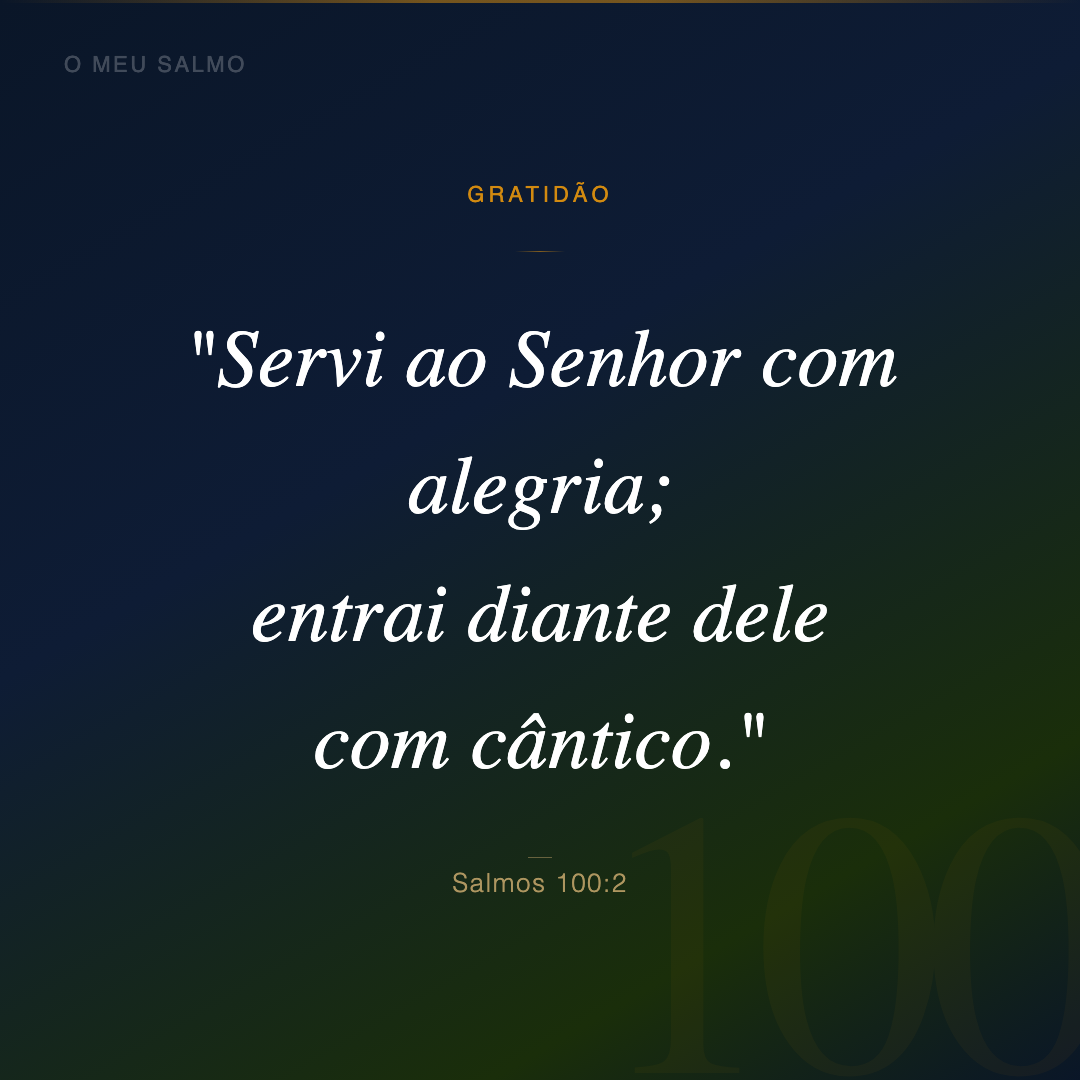
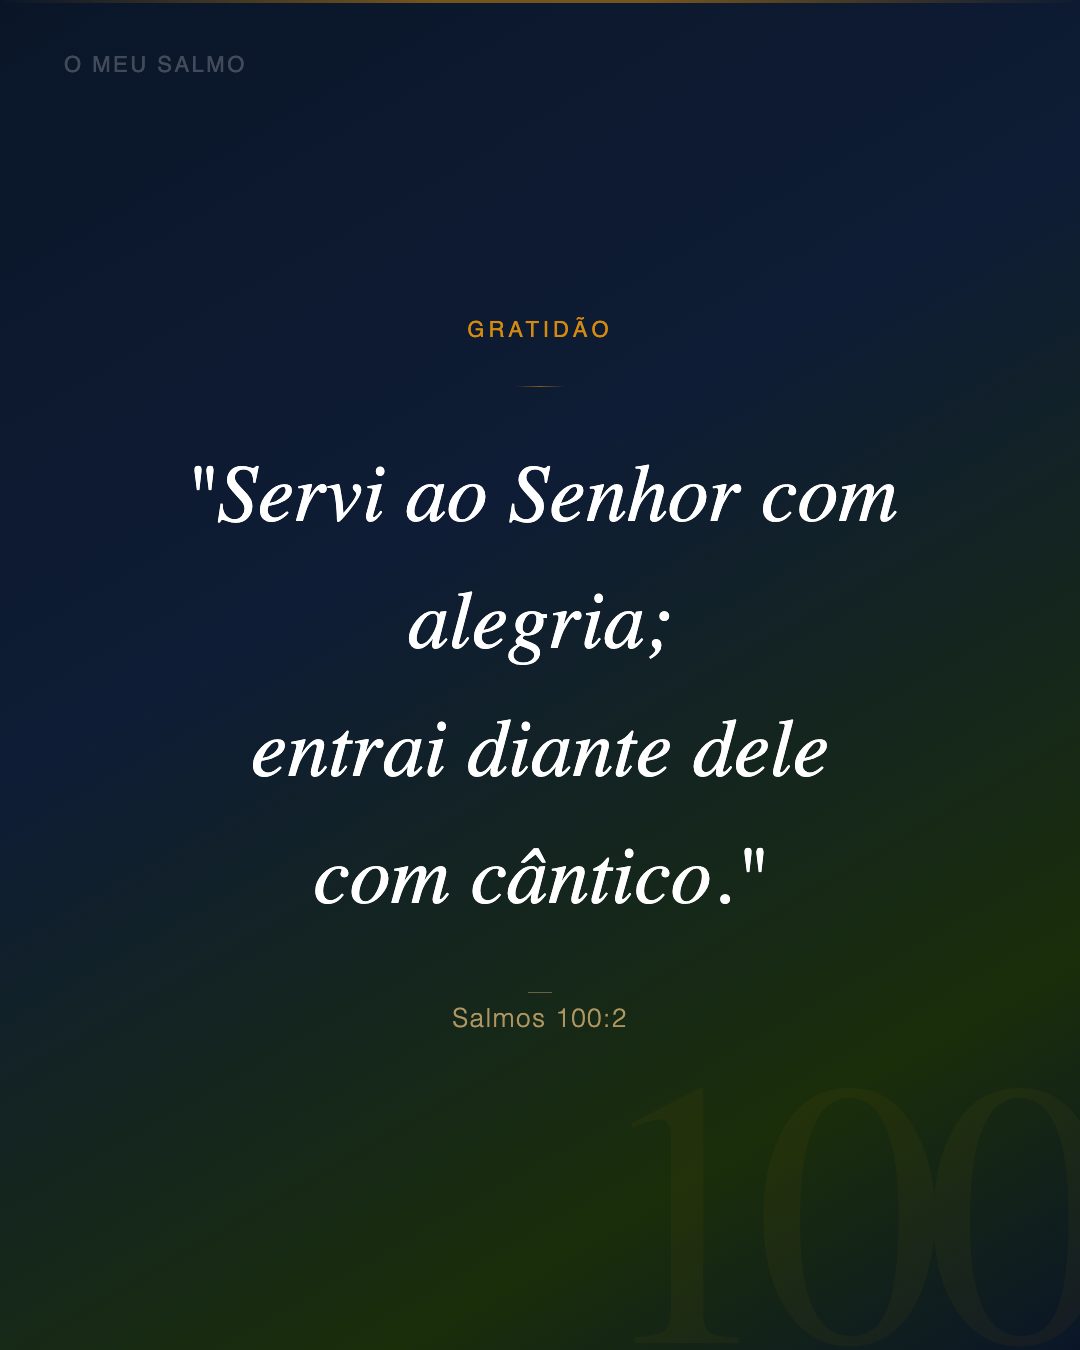
design(instagram): 4:5 feed format + carousel engagement pass
Applied social-media-carousel skill review:
- All 14 feed images migrated 1080x1080 -> 1080x1350 (4:5 takes more
  feed real estate than square)
- Carousel value slides: discreet progress counter (N de 5) at top,
  moved off the footer logo after first pass collided
- CTA slide: 'Salve este post para quando precisar' save cue (saves
  outweigh likes for reach)
- Queue re-copied with updated images; README specs section added
- Kept brand identity (Cormorant/DM Sans, sober tone) over the skill's
  generic sans-serif recommendation

diff --git a/instagram/carrossel-ansiedade/slide-07-cta.html b/instagram/carrossel-ansiedade/slide-07-cta.html
@@ -3,9 +3,9 @@
 <link href="https://fonts.googleapis.com/css2?family=Cormorant+Garamond:ital,wght@0,300;0,400;1,300;1,400&family=DM+Sans:wght@300;400;500&display=swap" rel="stylesheet">
 <style>
 * { margin:0; padding:0; box-sizing:border-box; }
-body { width:1080px; height:1080px; overflow:hidden; }
+body { width:1080px; height:1350px; overflow:hidden; }
 .slide {
-  width:1080px; height:1080px;
+  width:1080px; height:1350px;
   background: linear-gradient(160deg, #0E1F3E 0%, #1A3A6E 60%, #1E4080 100%);
   display:flex; flex-direction:column;
   align-items:center; justify-content:center;
@@ -49,6 +49,7 @@ body { width:1080px; height:1080px; overflow:hidden; }
   color:#FFFFFF; opacity:0.25;
   letter-spacing:2px; text-transform:uppercase;
 }
+.save-cue{margin-top:48px;font-family:'DM Sans',sans-serif;font-size:24px;color:#C9A96E;opacity:0.75;letter-spacing:1px;}
 </style></head><body>
 <div class="slide">
   <div class="tag">O Meu Salmo</div>
@@ -58,6 +59,7 @@ body { width:1080px; height:1080px; overflow:hidden; }
     <div class="feature">Ansiedade <span class="sep">·</span> Sono <span class="sep">·</span> Gratidão <span class="sep">·</span> Luto</div>
     <div class="feature">Esperança <span class="sep">·</span> Perdão <span class="sep">·</span> Louvor <span class="sep">·</span> Proteção</div>
   </div>
+  <div class="save-cue">Salve este post para quando precisar.</div>
   <div class="url">omeusalmo.com.br</div>
   <div class="brand">Gratuito · Android</div>
 </div>

diff --git a/instagram/carrossel-ansiedade/slide-03-salmo-46.html b/instagram/carrossel-ansiedade/slide-03-salmo-46.html
@@ -3,9 +3,9 @@
 <link href="https://fonts.googleapis.com/css2?family=Cormorant+Garamond:ital,wght@0,300;0,400;1,300;1,400&family=DM+Sans:wght@300;400;500&display=swap" rel="stylesheet">
 <style>
 * { margin:0; padding:0; box-sizing:border-box; }
-body { width:1080px; height:1080px; overflow:hidden; }
+body { width:1080px; height:1350px; overflow:hidden; }
 .slide {
-  width:1080px; height:1080px;
+  width:1080px; height:1350px;
   background: linear-gradient(160deg, #0A1628 0%, #0D1A36 60%, #12244A 100%);
   display:flex; flex-direction:column;
   align-items:center; justify-content:center;
@@ -42,8 +42,10 @@ body { width:1080px; height:1080px; overflow:hidden; }
   color:#FFFFFF; opacity:0.2;
   letter-spacing:1px; text-transform:uppercase;
 }
+.progress-tag{position:absolute;top:64px;left:0;right:0;text-align:center;font-family:'DM Sans',sans-serif;font-size:22px;font-weight:400;color:#FFFFFF;opacity:0.30;letter-spacing:3px;}
 </style></head><body>
 <div class="slide">
+  <div class="progress-tag">2 de 5</div>
   <div class="num">46</div>
   <div class="tag">Ansiedade</div>
   <div class="verse">"Deus é o nosso refúgio<br>e fortaleza, socorro<br>bem presente nas<br>tribulações."</div>

diff --git a/instagram/carrossel-ansiedade/slide-06-salmo-62.html b/instagram/carrossel-ansiedade/slide-06-salmo-62.html
@@ -3,9 +3,9 @@
 <link href="https://fonts.googleapis.com/css2?family=Cormorant+Garamond:ital,wght@0,300;0,400;1,300;1,400&family=DM+Sans:wght@300;400;500&display=swap" rel="stylesheet">
 <style>
 * { margin:0; padding:0; box-sizing:border-box; }
-body { width:1080px; height:1080px; overflow:hidden; }
+body { width:1080px; height:1350px; overflow:hidden; }
 .slide {
-  width:1080px; height:1080px;
+  width:1080px; height:1350px;
   background: linear-gradient(160deg, #0A1628 0%, #0D1A36 60%, #12244A 100%);
   display:flex; flex-direction:column;
   align-items:center; justify-content:center;
@@ -41,8 +41,10 @@ body { width:1080px; height:1080px; overflow:hidden; }
   color:#FFFFFF; opacity:0.2;
   letter-spacing:1px; text-transform:uppercase;
 }
+.progress-tag{position:absolute;top:64px;left:0;right:0;text-align:center;font-family:'DM Sans',sans-serif;font-size:22px;font-weight:400;color:#FFFFFF;opacity:0.30;letter-spacing:3px;}
 </style></head><body>
 <div class="slide">
+  <div class="progress-tag">5 de 5</div>
   <div class="num">62</div>
   <div class="tag">Ansiedade</div>
   <div class="verse">"Descansa só em Deus,<br>ó minha alma, porque<br>d'Ele vem a minha<br>esperança."</div>

diff --git a/instagram/carrossel-ansiedade/slide-02-salmo-94.html b/instagram/carrossel-ansiedade/slide-02-salmo-94.html
@@ -3,9 +3,9 @@
 <link href="https://fonts.googleapis.com/css2?family=Cormorant+Garamond:ital,wght@0,300;0,400;1,300;1,400&family=DM+Sans:wght@300;400;500&display=swap" rel="stylesheet">
 <style>
 * { margin:0; padding:0; box-sizing:border-box; }
-body { width:1080px; height:1080px; overflow:hidden; }
+body { width:1080px; height:1350px; overflow:hidden; }
 .slide {
-  width:1080px; height:1080px;
+  width:1080px; height:1350px;
   background: linear-gradient(160deg, #0A1628 0%, #0D1A36 60%, #12244A 100%);
   display:flex; flex-direction:column;
   align-items:center; justify-content:center;
@@ -50,8 +50,10 @@ body { width:1080px; height:1080px; overflow:hidden; }
   background:#C9A96E; opacity:0.4;
   margin: 40px auto 0;
 }
+.progress-tag{position:absolute;top:64px;left:0;right:0;text-align:center;font-family:'DM Sans',sans-serif;font-size:22px;font-weight:400;color:#FFFFFF;opacity:0.30;letter-spacing:3px;}
 </style></head><body>
 <div class="slide">
+  <div class="progress-tag">1 de 5</div>
   <div class="num">94</div>
   <div class="tag">Ansiedade</div>
   <div class="verse">"Quando os meus pensamentos<br>se multiplicam dentro de mim,<br>o teu consolo alegra<br>a minha alma."</div>

diff --git a/instagram/carrossel-ansiedade/slide-04-salmo-55.html b/instagram/carrossel-ansiedade/slide-04-salmo-55.html
@@ -3,9 +3,9 @@
 <link href="https://fonts.googleapis.com/css2?family=Cormorant+Garamond:ital,wght@0,300;0,400;1,300;1,400&family=DM+Sans:wght@300;400;500&display=swap" rel="stylesheet">
 <style>
 * { margin:0; padding:0; box-sizing:border-box; }
-body { width:1080px; height:1080px; overflow:hidden; }
+body { width:1080px; height:1350px; overflow:hidden; }
 .slide {
-  width:1080px; height:1080px;
+  width:1080px; height:1350px;
   background: linear-gradient(160deg, #0A1628 0%, #0D1A36 60%, #12244A 100%);
   display:flex; flex-direction:column;
   align-items:center; justify-content:center;
@@ -41,8 +41,10 @@ body { width:1080px; height:1080px; overflow:hidden; }
   color:#FFFFFF; opacity:0.2;
   letter-spacing:1px; text-transform:uppercase;
 }
+.progress-tag{position:absolute;top:64px;left:0;right:0;text-align:center;font-family:'DM Sans',sans-serif;font-size:22px;font-weight:400;color:#FFFFFF;opacity:0.30;letter-spacing:3px;}
 </style></head><body>
 <div class="slide">
+  <div class="progress-tag">3 de 5</div>
   <div class="num">55</div>
   <div class="tag">Ansiedade</div>
   <div class="verse">"Lança o teu peso<br>sobre o Senhor,<br>e ele te sustentará."</div>

diff --git a/instagram/carrossel-ansiedade/slide-05-salmo-121.html b/instagram/carrossel-ansiedade/slide-05-salmo-121.html
@@ -3,9 +3,9 @@
 <link href="https://fonts.googleapis.com/css2?family=Cormorant+Garamond:ital,wght@0,300;0,400;1,300;1,400&family=DM+Sans:wght@300;400;500&display=swap" rel="stylesheet">
 <style>
 * { margin:0; padding:0; box-sizing:border-box; }
-body { width:1080px; height:1080px; overflow:hidden; }
+body { width:1080px; height:1350px; overflow:hidden; }
 .slide {
-  width:1080px; height:1080px;
+  width:1080px; height:1350px;
   background: linear-gradient(160deg, #0A1628 0%, #0D1A36 60%, #12244A 100%);
   display:flex; flex-direction:column;
   align-items:center; justify-content:center;
@@ -41,8 +41,10 @@ body { width:1080px; height:1080px; overflow:hidden; }
   color:#FFFFFF; opacity:0.2;
   letter-spacing:1px; text-transform:uppercase;
 }
+.progress-tag{position:absolute;top:64px;left:0;right:0;text-align:center;font-family:'DM Sans',sans-serif;font-size:22px;font-weight:400;color:#FFFFFF;opacity:0.30;letter-spacing:3px;}
 </style></head><body>
 <div class="slide">
+  <div class="progress-tag">4 de 5</div>
   <div class="num">121</div>
   <div class="tag">Ansiedade</div>
   <div class="verse">"O meu socorro vem<br>do Senhor, que fez<br>o céu e a terra."</div>

diff --git a/instagram/semana-1/dia-01-domingo-esperanca.html b/instagram/semana-1/dia-01-domingo-esperanca.html
@@ -3,9 +3,9 @@
 <link href="https://fonts.googleapis.com/css2?family=Cormorant+Garamond:ital,wght@0,300;0,400;1,300;1,400&family=DM+Sans:wght@300;400;500&display=swap" rel="stylesheet">
 <style>
 * { margin:0; padding:0; box-sizing:border-box; }
-body { width:1080px; height:1080px; overflow:hidden; }
+body { width:1080px; height:1350px; overflow:hidden; }
 .slide {
-  width:1080px; height:1080px;
+  width:1080px; height:1350px;
   background: linear-gradient(155deg, #0A1628 0%, #0D1F40 45%, #0F2550 75%, #1A3A6E 100%);
   display:flex; flex-direction:column;
   align-items:center; justify-content:center;

diff --git a/instagram/semana-1/dia-02-segunda-gratidao.html b/instagram/semana-1/dia-02-segunda-gratidao.html
@@ -3,9 +3,9 @@
 <link href="https://fonts.googleapis.com/css2?family=Cormorant+Garamond:ital,wght@0,300;0,400;1,300;1,400&family=DM+Sans:wght@300;400;500&display=swap" rel="stylesheet">
 <style>
 * { margin:0; padding:0; box-sizing:border-box; }
-body { width:1080px; height:1080px; overflow:hidden; }
+body { width:1080px; height:1350px; overflow:hidden; }
 .slide {
-  width:1080px; height:1080px;
+  width:1080px; height:1350px;
   background: linear-gradient(150deg, #0A1628 0%, #0E1C35 40%, #1A2E0A 80%, #0A1628 100%);
   display:flex; flex-direction:column;
   align-items:center; justify-content:center;

diff --git a/instagram/semana-1/dia-04-quarta-perdao.html b/instagram/semana-1/dia-04-quarta-perdao.html
@@ -3,9 +3,9 @@
 <link href="https://fonts.googleapis.com/css2?family=Cormorant+Garamond:ital,wght@0,300;0,400;1,300;1,400&family=DM+Sans:wght@300;400;500&display=swap" rel="stylesheet">
 <style>
 * { margin:0; padding:0; box-sizing:border-box; }
-body { width:1080px; height:1080px; overflow:hidden; }
+body { width:1080px; height:1350px; overflow:hidden; }
 .slide {
-  width:1080px; height:1080px;
+  width:1080px; height:1350px;
   background: linear-gradient(158deg, #0A1628 0%, #150A28 45%, #1A0A1E 80%, #0A1628 100%);
   display:flex; flex-direction:column;
   align-items:center; justify-content:center;

diff --git a/instagram/semana-1/dia-05-quinta-sono.html b/instagram/semana-1/dia-05-quinta-sono.html
@@ -3,9 +3,9 @@
 <link href="https://fonts.googleapis.com/css2?family=Cormorant+Garamond:ital,wght@0,300;0,400;1,300;1,400&family=DM+Sans:wght@300;400;500&display=swap" rel="stylesheet">
 <style>
 * { margin:0; padding:0; box-sizing:border-box; }
-body { width:1080px; height:1080px; overflow:hidden; }
+body { width:1080px; height:1350px; overflow:hidden; }
 .slide {
-  width:1080px; height:1080px;
+  width:1080px; height:1350px;
   background: linear-gradient(162deg, #060912 0%, #0A0E20 40%, #0D1235 70%, #0A1628 100%);
   display:flex; flex-direction:column;
   align-items:center; justify-content:center;

diff --git a/instagram/semana-1/dia-06-sexta-louvor.html b/instagram/semana-1/dia-06-sexta-louvor.html
@@ -3,9 +3,9 @@
 <link href="https://fonts.googleapis.com/css2?family=Cormorant+Garamond:ital,wght@0,300;0,400;1,300;1,400&family=DM+Sans:wght@300;400;500&display=swap" rel="stylesheet">
 <style>
 * { margin:0; padding:0; box-sizing:border-box; }
-body { width:1080px; height:1080px; overflow:hidden; }
+body { width:1080px; height:1350px; overflow:hidden; }
 .slide {
-  width:1080px; height:1080px;
+  width:1080px; height:1350px;
   background: linear-gradient(155deg, #0A1628 0%, #120E08 45%, #1A1400 75%, #0A1628 100%);
   display:flex; flex-direction:column;
   align-items:center; justify-content:center;

diff --git a/instagram/semana-1/dia-07-sabado-protecao.html b/instagram/semana-1/dia-07-sabado-protecao.html
@@ -3,9 +3,9 @@
 <link href="https://fonts.googleapis.com/css2?family=Cormorant+Garamond:ital,wght@0,300;0,400;1,300;1,400&family=DM+Sans:wght@300;400;500&display=swap" rel="stylesheet">
 <style>
 * { margin:0; padding:0; box-sizing:border-box; }
-body { width:1080px; height:1080px; overflow:hidden; }
+body { width:1080px; height:1350px; overflow:hidden; }
 .slide {
-  width:1080px; height:1080px;
+  width:1080px; height:1350px;
   background: linear-gradient(158deg, #060E1E 0%, #0A1628 40%, #0E1E3C 70%, #1A2E58 100%);
   display:flex; flex-direction:column;
   align-items:center; justify-content:center;
